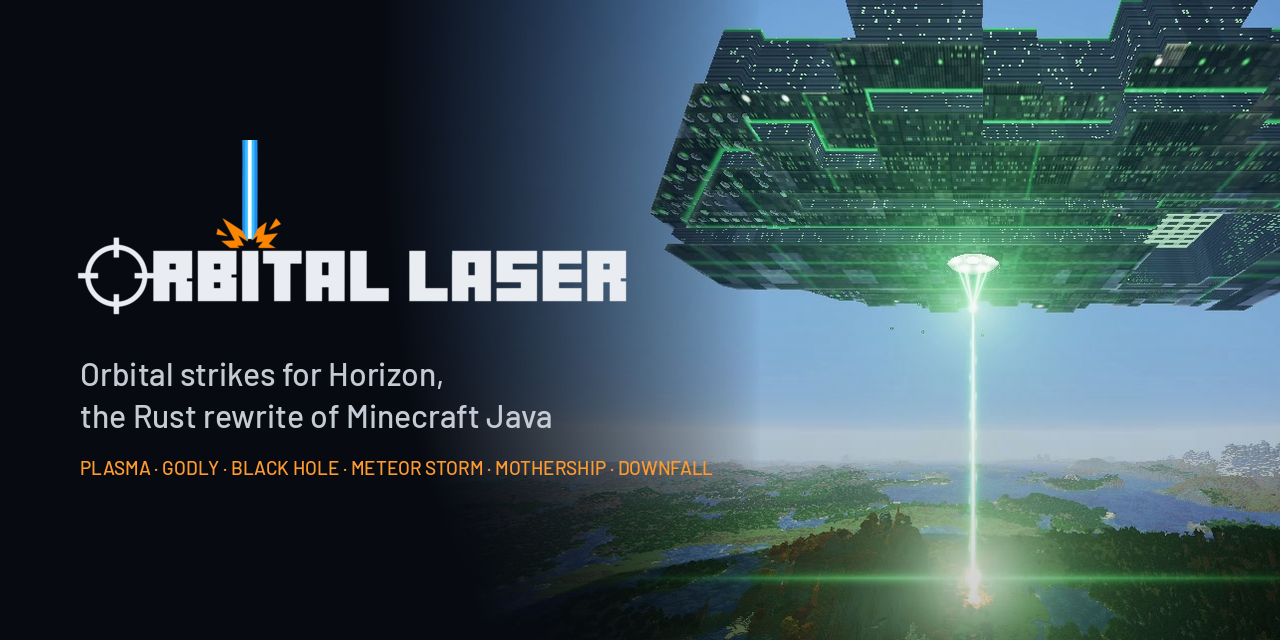
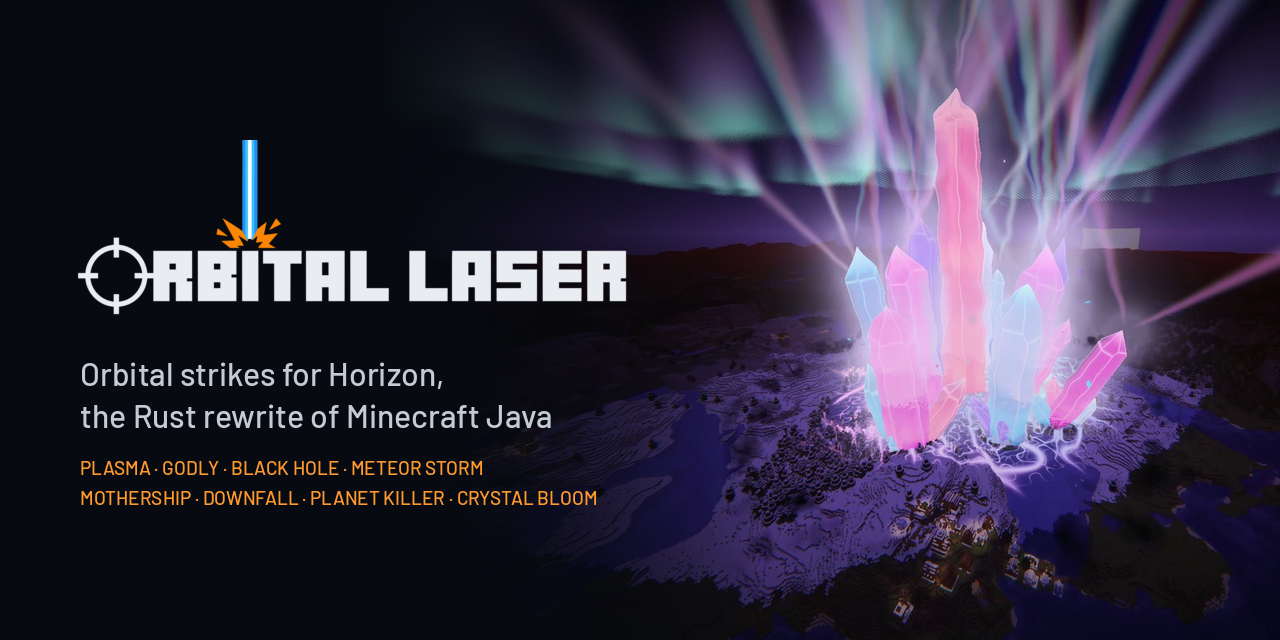
Social preview: the Crystal Bloom's prism beams, and all eight lasers named

diff --git a/tools/make_branding.py b/tools/make_branding.py
@@ -36,7 +36,7 @@ def raster(svg, width):
 def social_preview():
     W, H = 1280, 640
     # a strike on the right of the card (its ship and beam clear of the words), fading into the dark on the left
-    shot = Image.open(ROOT / "docs" / "11-mothership.jpg").convert("RGB")
+    shot = Image.open(ROOT / "docs" / "22-crystal-bloom-prism.jpg").convert("RGB")
     shot = shot.resize((round(shot.width * H * 1.12 / shot.height), round(H * 1.12)), Image.LANCZOS)
     card = Image.new("RGBA", (W, H), (7, 10, 17, 255))
     card.paste(shot, (W - shot.width + 330, -round(H * 0.06)))
@@ -53,7 +53,9 @@ def social_preview():
     d = ImageDraw.Draw(card)
     d.text((80, 140 + logo.height + 34), "Orbital strikes for Horizon,", font=ImageFont.truetype(str(FONT), 32), fill="#C4CBD4")
     d.text((80, 140 + logo.height + 76), "the Rust rewrite of Minecraft Java", font=ImageFont.truetype(str(FONT), 32), fill="#C4CBD4")
-    d.text((80, 140 + logo.height + 136), "PLASMA · GODLY · BLACK HOLE · METEOR STORM · MOTHERSHIP · DOWNFALL", font=ImageFont.truetype(str(FONT), 19), fill="#FF9A2E")
+    names = ImageFont.truetype(str(FONT), 19)
+    d.text((80, 140 + logo.height + 136), "PLASMA · GODLY · BLACK HOLE · METEOR STORM", font=names, fill="#FF9A2E")
+    d.text((80, 140 + logo.height + 166), "MOTHERSHIP · DOWNFALL · PLANET KILLER · CRYSTAL BLOOM", font=names, fill="#FF9A2E")
     card.convert("RGB").save(OUT / "social-preview.png", optimize=True)
 
 
